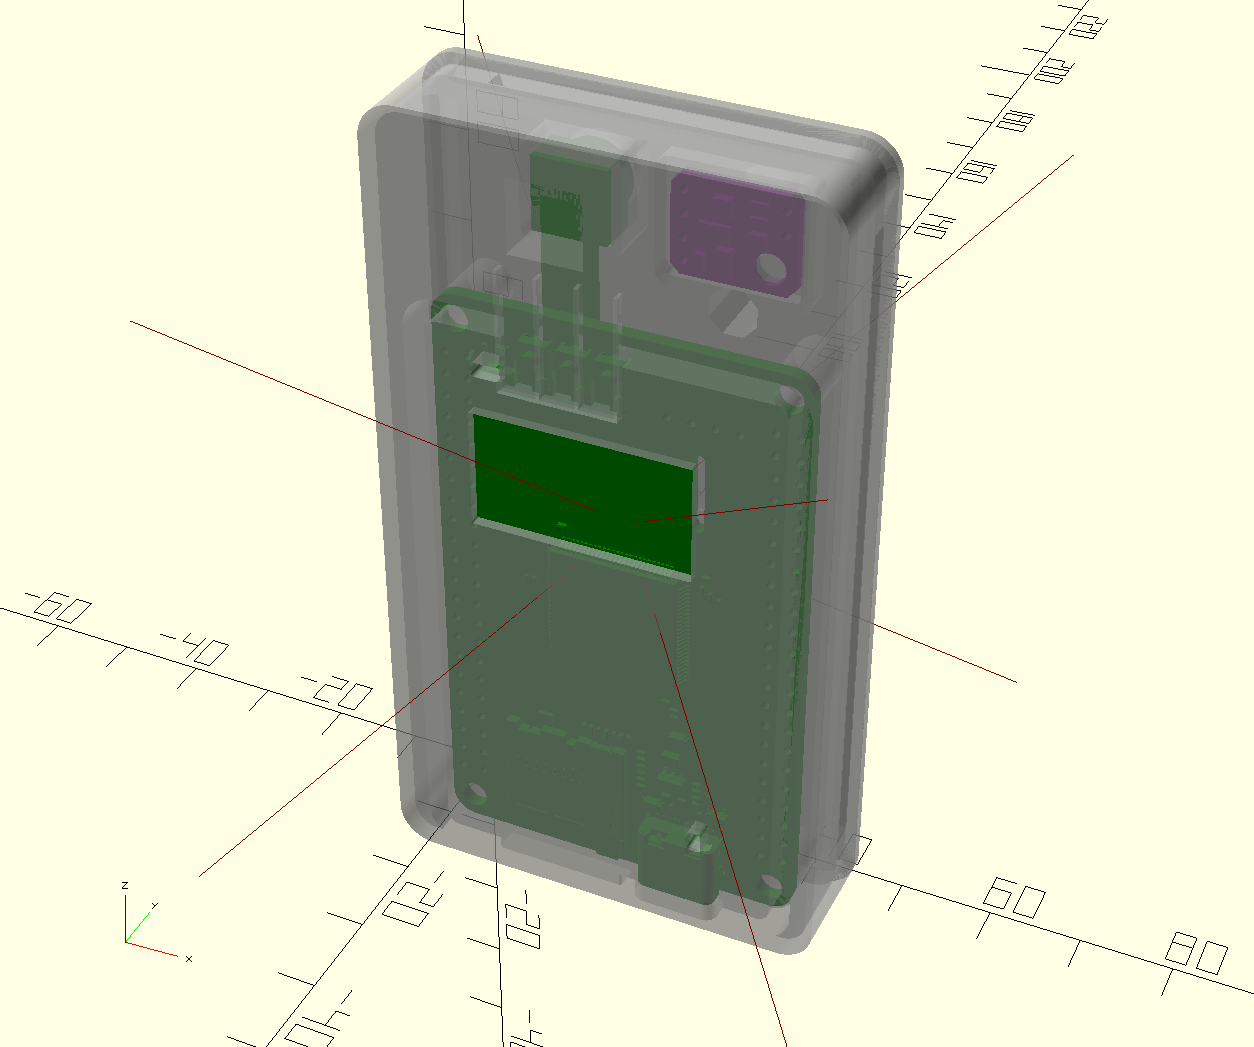
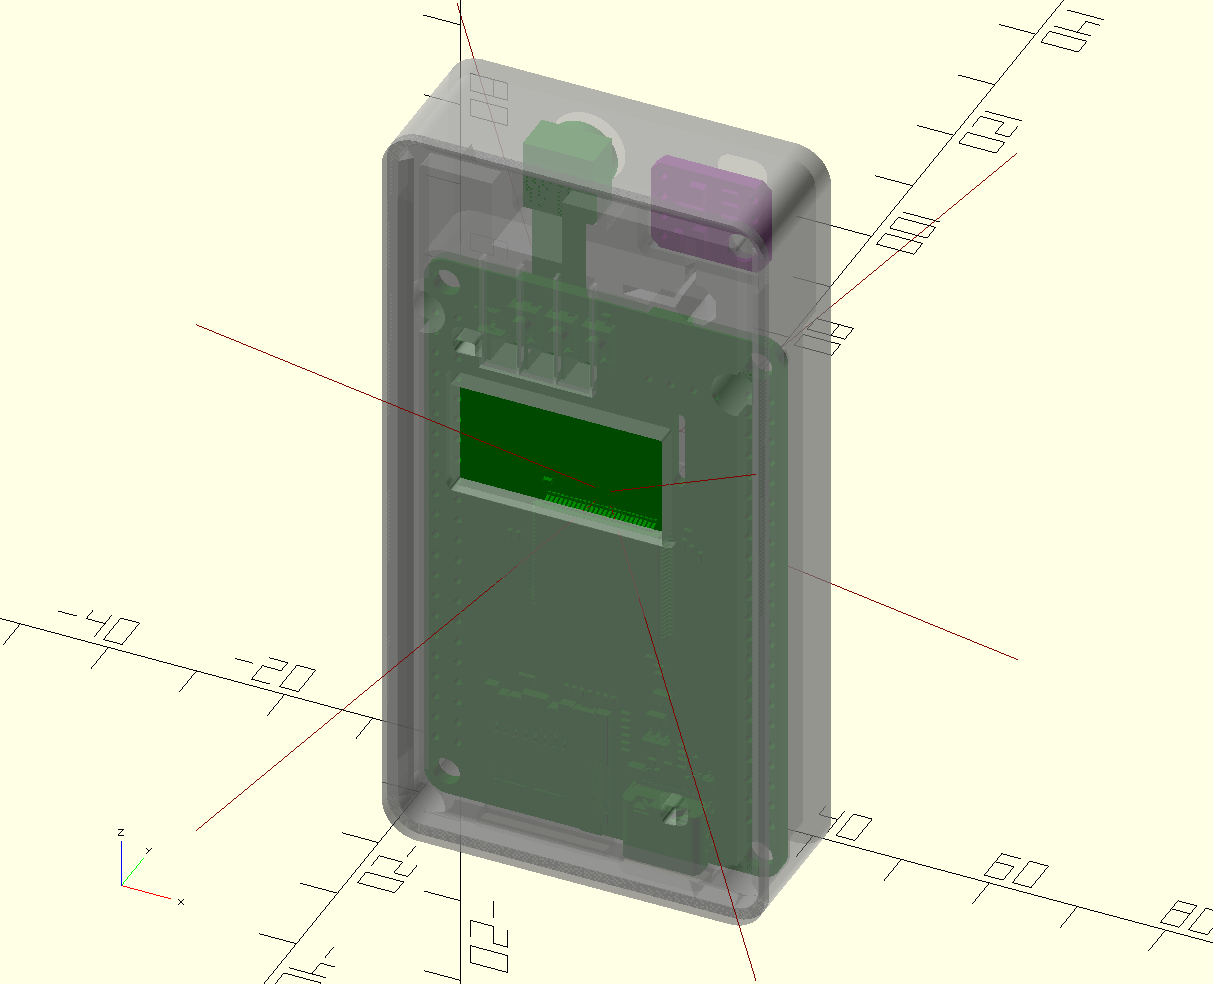
ok

diff --git a/README.md b/README.md
@@ -1,5 +1,5 @@
 # Box for WeAct MiniSTM32H7xx
-| ![](MiniSTM32H7xx_box.png) | ![](assembled.png) |
+| ![](open.png) | ![](assembled.png) |
 |--|--|
 | open | assembled|
 
